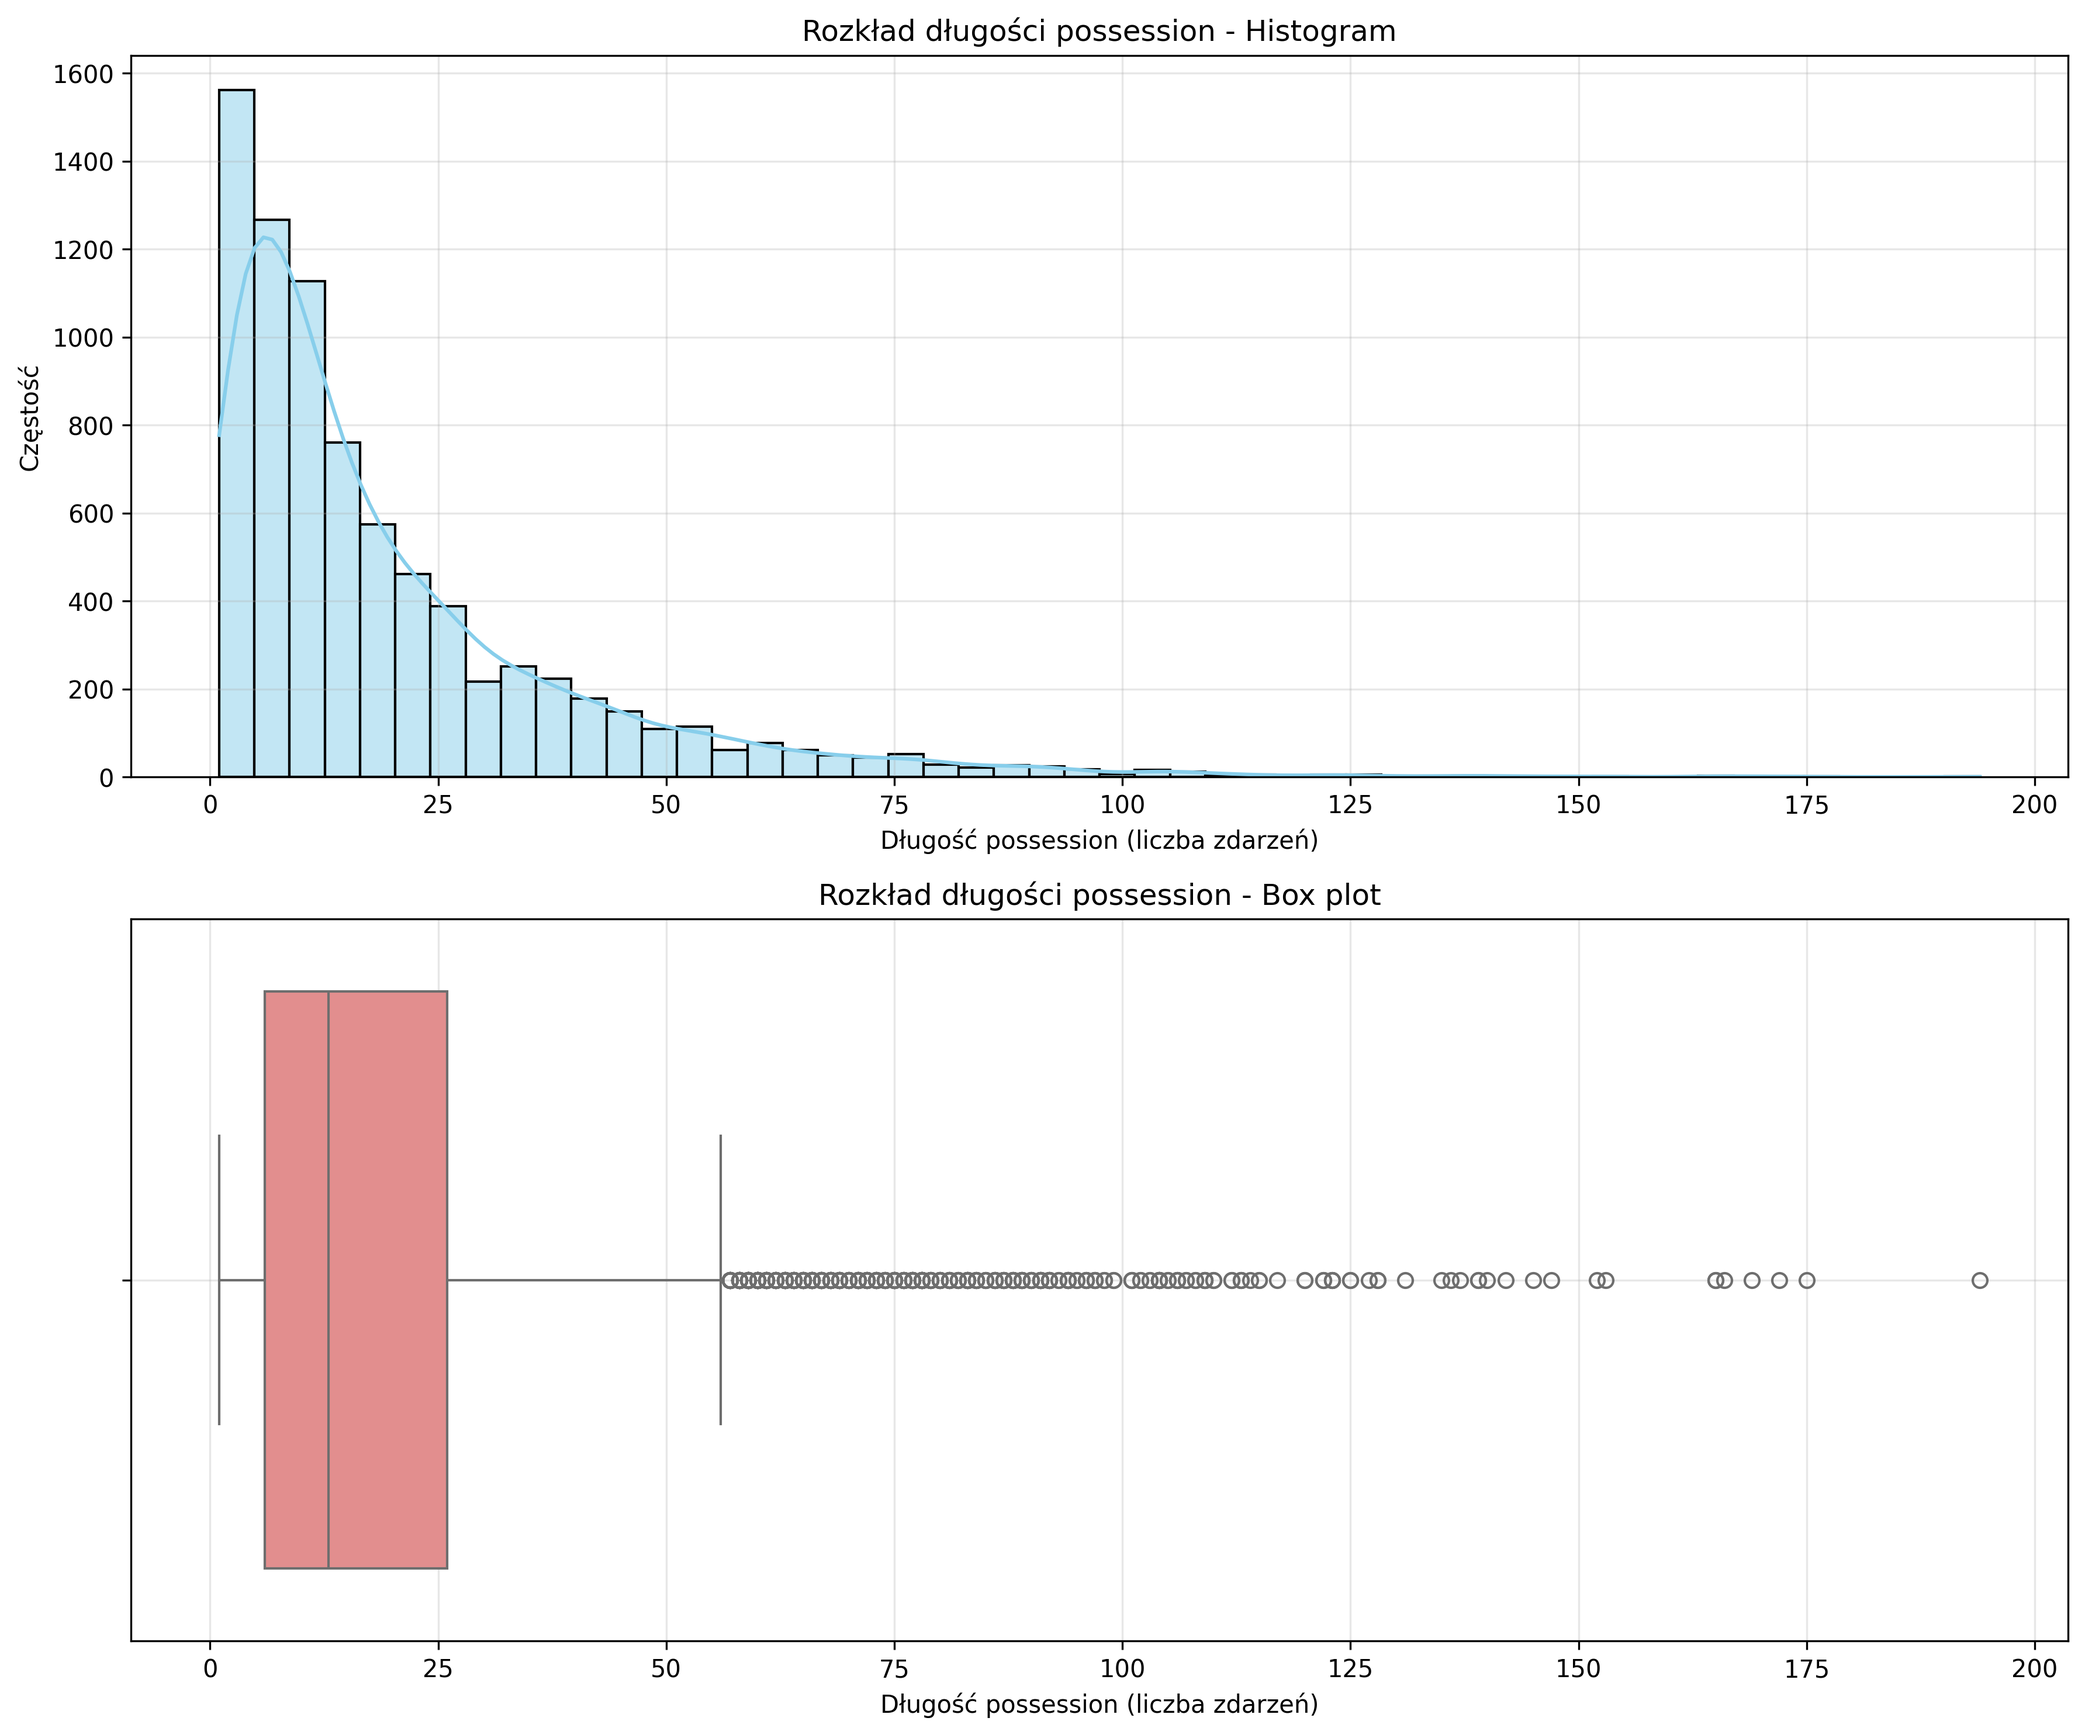
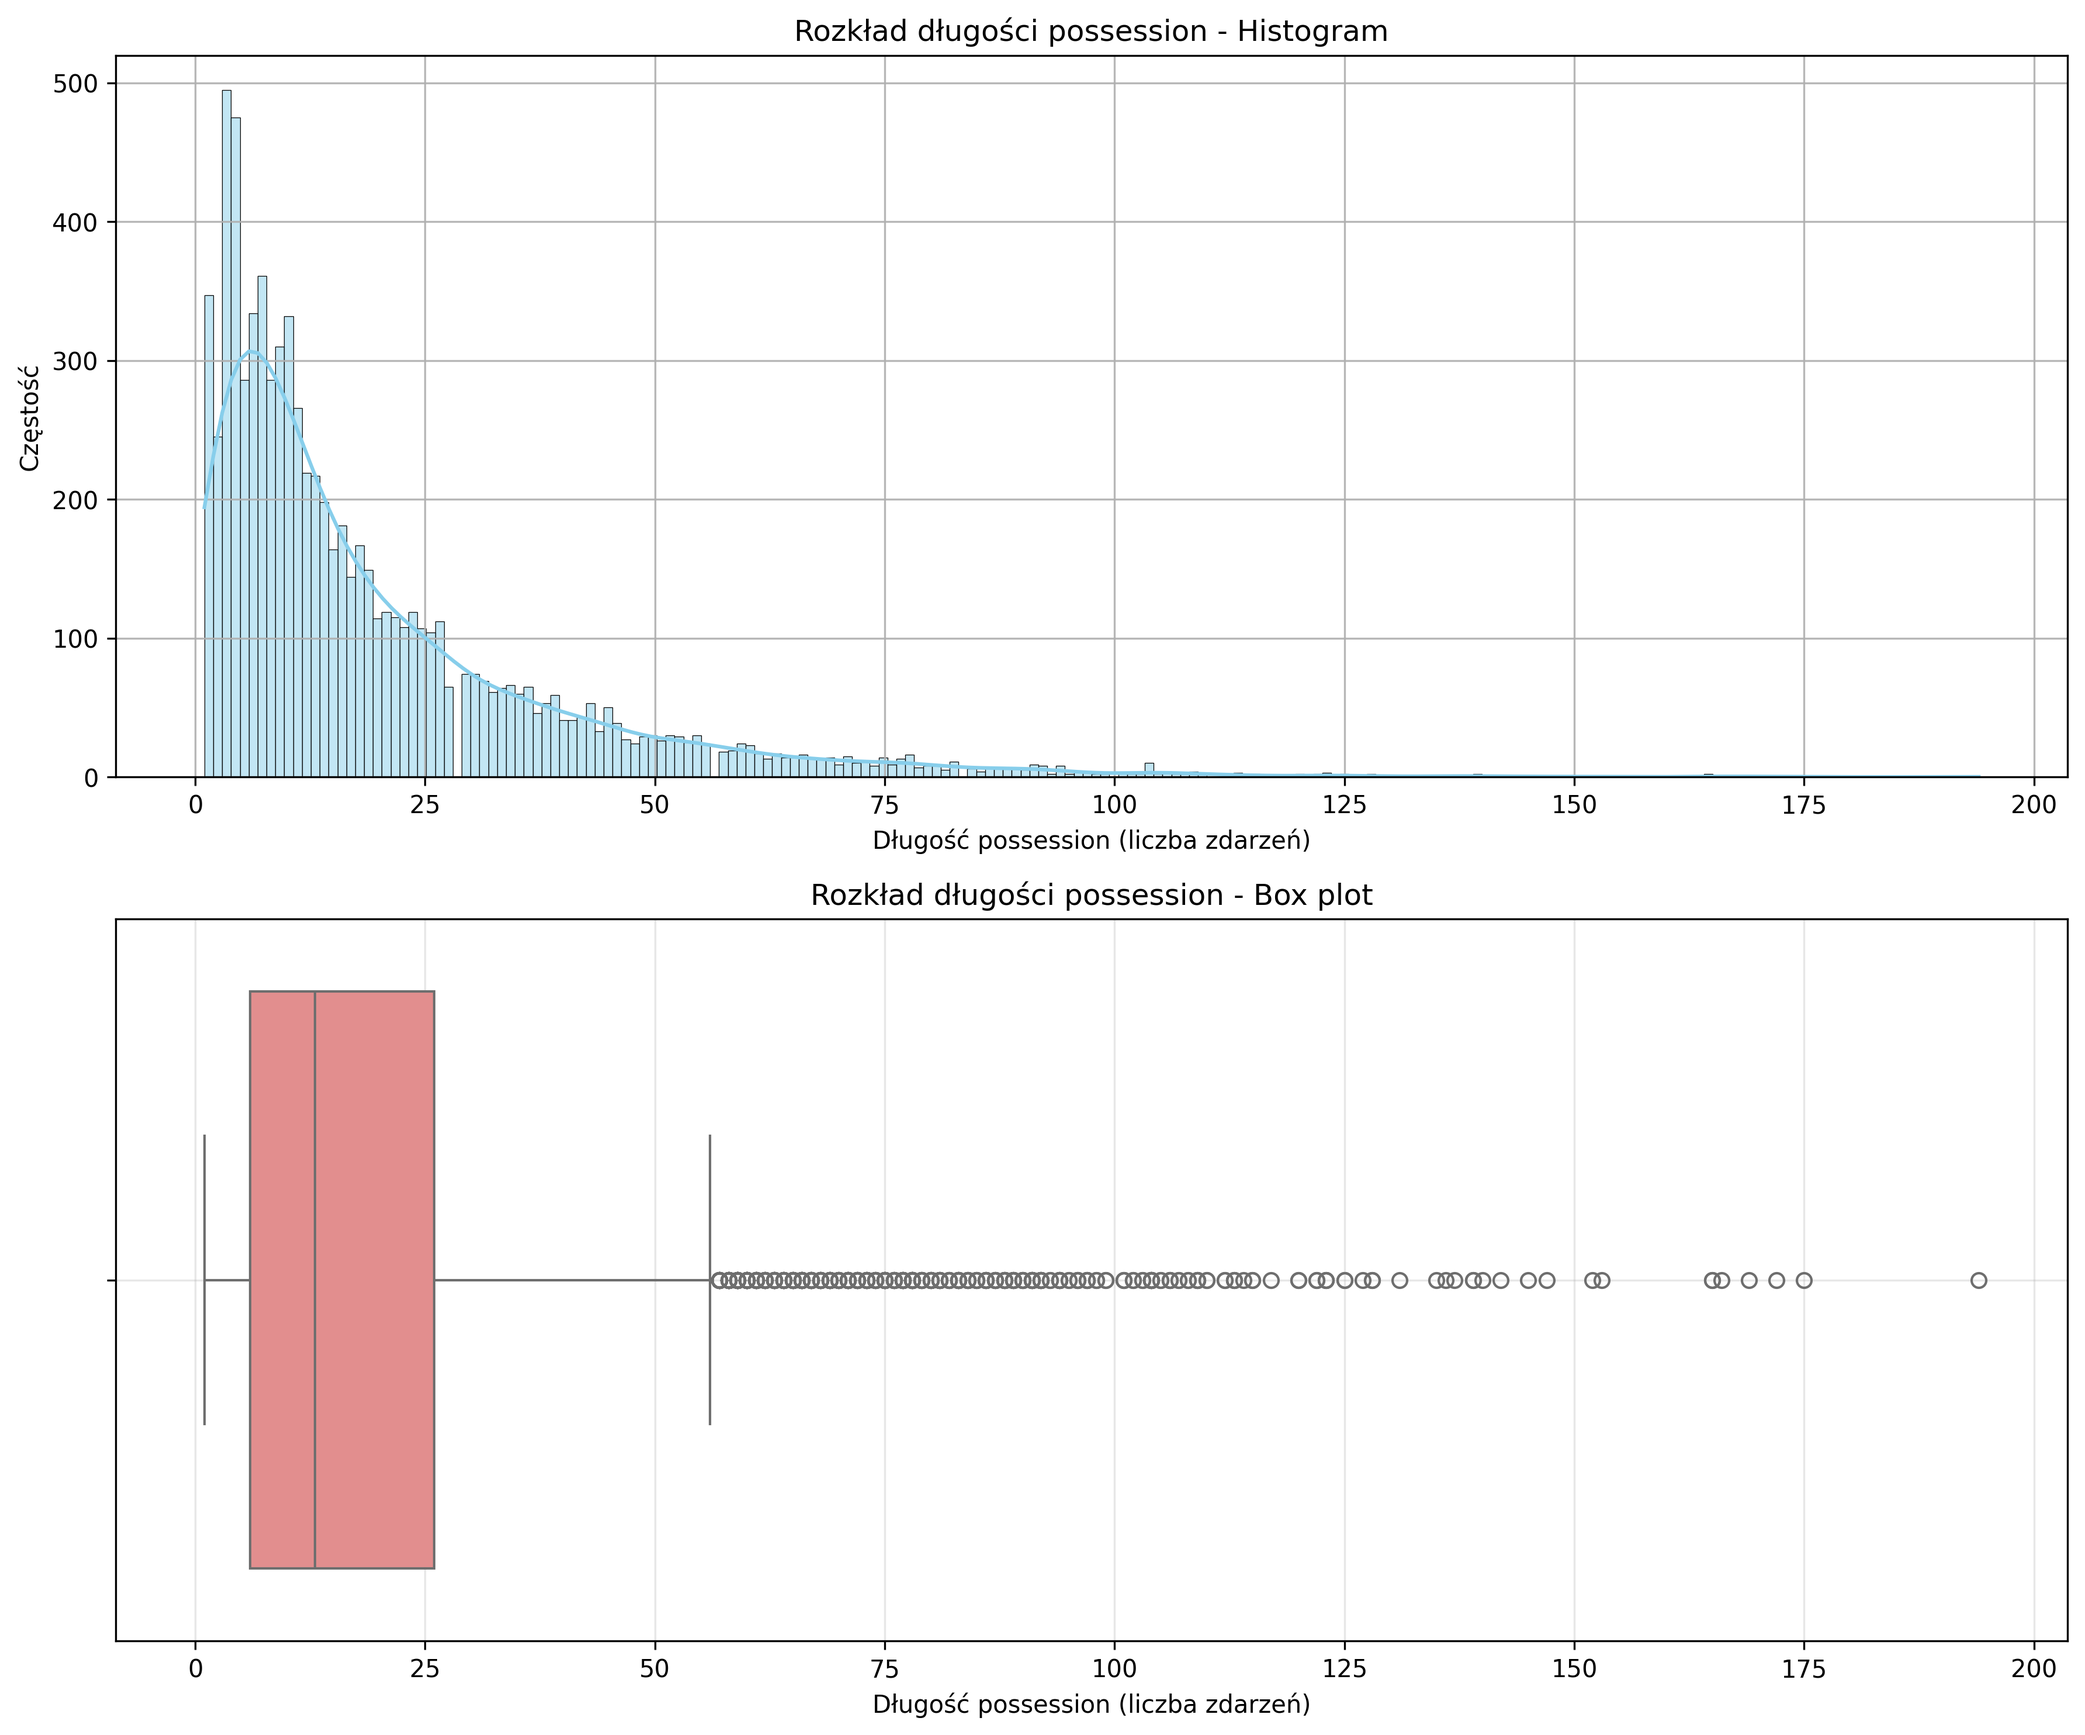
feat: add possession percentiles calculation and visualization

diff --git a/src/analysis/events_possessions.py b/src/analysis/events_possessions.py
@@ -13,16 +13,16 @@ pd.set_option('display.max_rows', None)
 pd.set_option('display.max_columns', None)
 
 
-def plot_possession_distribution(possessions_df: pd.DataFrame, title: str = "Rozkład długości possession") -> None:
+def plot_possession_distribution(possessions_df: pd.DataFrame, title: str = "Rozkład długości possession") -> plt.Figure:
     """Create a histogram and KDE plot for possession length distribution"""
     fig, axes = plt.subplots(2, 1, figsize=(12, 10))
 
     # Histogram with KDE
-    sns.histplot(data=possessions_df, x='length', kde=True, bins=50, ax=axes[0], color='skyblue')
+    sns.histplot(data=possessions_df, x='length', kde=True, bins=200, ax=axes[0], color='skyblue')
     axes[0].set_xlabel('Długość possession (liczba zdarzeń)')
     axes[0].set_ylabel('Częstość')
     axes[0].set_title(f'{title} - Histogram')
-    axes[0].grid(alpha=0.3)
+    axes[0].grid(alpha=0.9)
 
     # Box plot
     sns.boxplot(data=possessions_df, x='length', ax=axes[1], color='lightcoral')
@@ -34,14 +34,14 @@ def plot_possession_distribution(possessions_df: pd.DataFrame, title: str = "Roz
     return fig
 
 
-def plot_possession_by_team(possessions_df: pd.DataFrame) -> None:
+def plot_possession_by_team(possessions_df: pd.DataFrame) -> plt.Figure:
     """Create a plot showing possession length distribution by team"""
     fig, ax = plt.subplots(figsize=(14, 8))
 
     sns.boxplot(data=possessions_df, x='possession_team', y='length', hue='possession_team', ax=ax, palette='Set2', legend=False)
     ax.set_xlabel('Drużyna')
     ax.set_ylabel('Długość possession (liczba zdarzeń)')
-    ax.set_title('Rozkład długości possession według drużyny')
+    ax.set_title('Rozkład długości possession według drużynie')
     ax.tick_params(axis='x', rotation=45)
     plt.tight_layout()
     return fig
@@ -61,14 +61,51 @@ def analyze_possessions(events_df: pd.DataFrame) -> pd.DataFrame:
 
 
 def calculate_possession_statistics(possessions_df: pd.DataFrame) -> dict:
+    mode_result = possessions_df['length'].mode()
     return {
         'mean_length': possessions_df['length'].mean(),
         'median_length': possessions_df['length'].median(),
+        'mode_length': mode_result[0] if not mode_result.empty else None,
         'std_length': possessions_df['length'].std(),
         'min_length': possessions_df['length'].min(),
         'max_length': possessions_df['length'].max(),
+        'q25': possessions_df['length'].quantile(0.25),
+        'q75': possessions_df['length'].quantile(0.75),
         'total_possessions': len(possessions_df)
     }
+
+
+def calculate_possession_percentiles(possessions_df: pd.DataFrame) -> dict:
+    """Calculate what percentage of possessions have >= specific minimum length"""
+    percentiles = {}
+    max_length = int(possessions_df['length'].max())
+    for length in range(2, min(15, max_length + 1)):
+        pct = (possessions_df['length'] >= length).sum() / len(possessions_df) * 100
+        percentiles[length] = pct
+    return percentiles
+
+
+def plot_possession_percentiles(possessions_df: pd.DataFrame) -> plt.Figure:
+    """Create a cumulative distribution plot showing minimum possession lengths"""
+    percentiles = calculate_possession_percentiles(possessions_df)
+    lengths = list(percentiles.keys())
+    percentages = list(percentiles.values())
+
+    fig, ax = plt.subplots(figsize=(12, 6))
+    ax.plot(lengths, percentages, marker='o', linewidth=2, markersize=8, color='steelblue')
+    ax.axhline(y=95, color='r', linestyle='--', label='95%', linewidth=2)
+    ax.axhline(y=90, color='orange', linestyle='--', label='90%', linewidth=1)
+    ax.axhline(y=80, color='green', linestyle='--', label='80%', linewidth=1)
+    ax.axhline(y=70, color='purple', linestyle='--', label='70%', linewidth=1)
+    ax.set_xlabel('Minimalna długość possession (liczba zdarzeń)')
+    ax.set_ylabel('Procent wszystkich possessions (%)')
+    ax.set_title('Rozkład possessions - jaki procent ma co najmniej X eventów')
+    ax.set_xticks(lengths)
+    ax.grid(alpha=0.3)
+    ax.legend()
+    ax.set_ylim((0, 105))
+    plt.tight_layout()
+    return fig
 
 
 def analyze_all_matches() -> pd.DataFrame:
@@ -83,17 +120,29 @@ def analyze_all_matches() -> pd.DataFrame:
 
 
 if __name__ == '__main__':
-    all_possessions = analyze_all_matches()
-    all_possessions.to_csv('data/processed/events_possessions.csv', index=False)
-    # all_possessions = pd.read_csv('data/processed/events_possessions.csv')
+    # all_possessions = analyze_all_matches()
+    # all_possessions.to_csv('data/processed/events_possessions.csv', index=False)
+    all_possessions = pd.read_csv('data/processed/events_possessions.csv')
 
-    for key, value in calculate_possession_statistics(all_possessions).items():
-        print(f"  {key}: {value:.2f}")
+    stats = calculate_possession_statistics(all_possessions)
+    for key, value in stats.items():
+        if isinstance(value, (int, float)):
+            print(f"  {key}: {value:.2f}")
+        else:
+            print(f"  {key}: {value}")
+
+    print("\n--- Percentyle possession (minimalną długość) ---")
+    percentiles = calculate_possession_percentiles(all_possessions)
+    for length, pct in percentiles.items():
+        print(f"  Co najmniej {length} zdarzeń: {pct:.1f}%")
 
     fig1 = plot_possession_distribution(all_possessions)
     fig1.savefig('data/plot/possession_distribution.png', dpi=300, bbox_inches='tight')
 
     fig2 = plot_possession_by_team(all_possessions)
     fig2.savefig('data/plot/possession_by_team.png', dpi=300, bbox_inches='tight')
+
+    fig3 = plot_possession_percentiles(all_possessions)
+    fig3.savefig('data/plot/possession_percentiles.png', dpi=300, bbox_inches='tight')
 
     plt.show()
